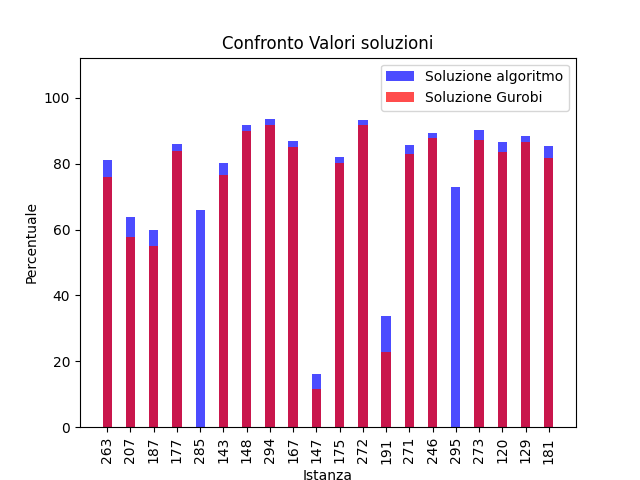
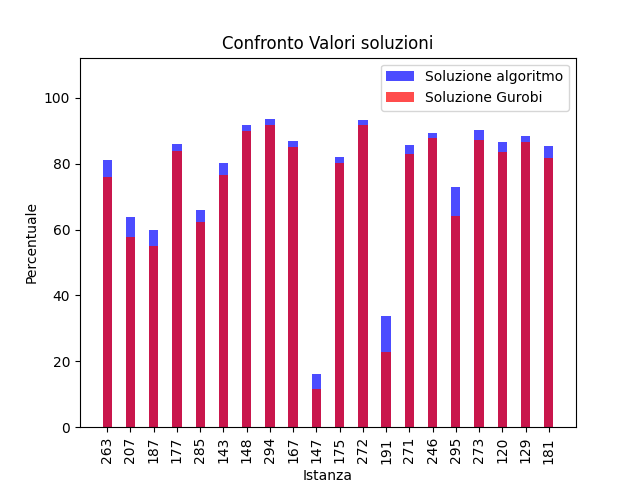
gurobi time out eseguito

Changed region(s): [[0.2812, 0.4688, 0.3438, 0.9062], [0.6875, 0.4375, 0.7188, 0.9062]]

diff --git a/Main.py b/Main.py
@@ -6,7 +6,7 @@ import matplotlib.pyplot as plt
 import networkx as nx
 import numpy as np
 from gurobipy import GRB
-N_ISTANZE = 80
+N_ISTANZE = 40
 LITTLE_IST = 500
 MAX_WEIGHT = 100
 MAX_NODES = 300
@@ -230,61 +230,63 @@ if __name__ == '__main__':
     for j in range(2):
 
         # Imposta la posizione delle barre
-        indices = np.arange(len(confronto_sol_list[j*(N_ISTANZE//4):(j+1)*N_ISTANZE//4]))
+        indices = np.arange(len(confronto_sol_list[j*(20):(j+1)*20]))
         plt.figure()
         # Grafico dei tempi
-        plt.bar(indices, tempo_sol_list[j*N_ISTANZE//4:(j+1)*N_ISTANZE//4], width=0.4, label='Soluzione algoritmo', color='blue', alpha=0.7)
-        plt.bar(indices, tempo_gurobi_list[j*N_ISTANZE//4:(j+1)*N_ISTANZE//4], width=0.4, label='Soluzione Gurobi', color='red', alpha=0.7)
+        plt.bar(indices, tempo_sol_list[j*20:(j+1)*20], width=0.4, label='Soluzione algoritmo', color='blue', alpha=0.7)
+        plt.bar(indices, tempo_gurobi_list[j*20:(j+1)*20], width=0.4, label='Soluzione Gurobi', color='red', alpha=0.7)
         plt.axhline(y=480, color='r', linestyle='--', label='Timeout Gurobi')
 
         # Aggiungi etichette e titolo
         plt.xlabel('Istanza')
         plt.ylabel('Tempo')
         plt.title('Confronto Tempo Soluzioni')
-        plt.xticks(ticks=indices, labels=[str(i) for i in num_nodes[j*N_ISTANZE//4:(j+1)*N_ISTANZE//4]], rotation=90)
+        plt.xticks(ticks=indices, labels=[str(i) for i in num_nodes[j*20:(j+1)*20]], rotation=90)
         plt.legend()
-        plt.ylim(0, max(max(tempo_sol_list[j*N_ISTANZE//4:(j+1)*N_ISTANZE//4]),max(tempo_gurobi_list[j*N_ISTANZE//4:(j+1)*N_ISTANZE//4]) * 1.2))
+        plt.ylim(0, max(max(tempo_sol_list[j*20:(j+1)*20]),max(tempo_gurobi_list[j*20:(j+1)*20]) * 1.2))
 
 
         plt.savefig('gTempo'+str(j))
 
         plt.figure()
-        plt.bar(indices, confronto_sol_list[j*N_ISTANZE//4:(j+1)*N_ISTANZE//4], width=0.4, label='Soluzione algoritmo', color='blue', alpha=0.7)
-        plt.bar(indices, confronto_gurobi_LB[j*N_ISTANZE//4:(j+1)*N_ISTANZE//4], width=0.4, label='Soluzione Gurobi', color='red', alpha=0.7)
+        plt.bar(indices, confronto_sol_list[j*20:(j+1)*20], width=0.4, label='Soluzione algoritmo', color='blue', alpha=0.7)
+        plt.bar(indices, confronto_gurobi_LB[j*20:(j+1)*20], width=0.4, label='Soluzione Gurobi', color='red', alpha=0.7)
         plt.xlabel('Istanza')
         plt.ylabel('Percentuale')
         plt.title('Confronto Valori soluzioni')
-        plt.xticks(ticks=indices, labels=[str(i) for i in num_nodes[j*N_ISTANZE//4:(j+1)*N_ISTANZE//4]], rotation=90)
+        plt.xticks(ticks=indices, labels=[str(i) for i in num_nodes[j*20:(j+1)*20]], rotation=90)
         plt.legend()
-        plt.ylim(0, max(confronto_sol_list[j*N_ISTANZE//4:(j+1)*N_ISTANZE//4]) * 1.2)
+        plt.ylim(0, max(confronto_sol_list[j*20:(j+1)*20]) * 1.2)
         plt.savefig('gValori'+ str(j))
+    """""
     for j in range(2,4):
 
         # Imposta la posizione delle barre
-        indices = np.arange(len(confronto_sol_list[j*(N_ISTANZE//4):(j+1)*N_ISTANZE//4]))
+        indices = np.arange(len(confronto_sol_list[j*(20):(j+1)*20]))
         plt.figure()
         # Grafico dei tempi
-        plt.bar(indices, tempo_sol_list[j*N_ISTANZE//4:(j+1)*N_ISTANZE//4], width=0.4, label='Soluzione algoritmo', color='blue', alpha=0.7)
+        plt.bar(indices, tempo_sol_list[j*20:(j+1)*20], width=0.4, label='Soluzione algoritmo', color='blue', alpha=0.7)
 
         # Aggiungi etichette e titolo
         plt.xlabel('Istanza')
         plt.ylabel('Tempo')
         plt.title('Tempo Soluzioni Grandi Istanze')
-        plt.xticks(ticks=indices, labels=[str(i) for i in num_nodes[j*N_ISTANZE//4:(j+1)*N_ISTANZE//4]], rotation=90)
+        plt.xticks(ticks=indices, labels=[str(i) for i in num_nodes[j*20:(j+1)*20]], rotation=90)
         plt.legend()
-        plt.ylim(0, max(tempo_sol_list[j*N_ISTANZE//4:(j+1)*N_ISTANZE//4]) * 1.2)
+        plt.ylim(0, max(tempo_sol_list[j*20:(j+1)*20]) * 1.2)
 
         plt.savefig('gTempo'+str(j))
 
         plt.figure()
-        plt.bar(indices, confronto_sol_list[j*N_ISTANZE//4:(j+1)*N_ISTANZE//4], width=0.4, label='Soluzione algoritmo', color='blue', alpha=0.7)
+        plt.bar(indices, confronto_sol_list[j*20:(j+1)*20], width=0.4, label='Soluzione algoritmo', color='blue', alpha=0.7)
         plt.xlabel('Istanza')
         plt.ylabel('Percentuale')
         plt.title('Confronto Valori soluzioni grandi istanze')
-        plt.xticks(ticks=indices, labels=[str(i) for i in num_nodes[j*N_ISTANZE//4:(j+1)*N_ISTANZE//4]], rotation=90)
+        plt.xticks(ticks=indices, labels=[str(i) for i in num_nodes[j*20:(j+1)*20]], rotation=90)
         plt.legend()
-        plt.ylim(0, max(confronto_sol_list[j*N_ISTANZE//4:(j+1)*N_ISTANZE//4]) * 1.2)
+        plt.ylim(0, max(confronto_sol_list[j*20:(j+1)*20]) * 1.2)
         plt.savefig('gValori'+ str(j))
+        """
     print('in media la soluzione trovata è stata più grande del '+ str(round(np.mean(confronto_sol_list),2))+'% rispetto al lower bound e per '+ str(sol_uguale_LB)+' volte è stato trovato valore soluzione uguale al lower bound')
     print('in media la soluzione trovata è stata più grande del '+ str(round(np.mean(confronto_gurobi_list),2))+'% rispetto alla soluzione di gurobi e per '+ str(sol_esatta)+' volte è stata trovata la soluzione esatta')
     print('tempo medio impiegato in più per trovare la soluzione '+ str(round(np.mean([a - b for a, b in zip(tempo_sol_list, tempo_gurobi_list)if b != -1]),2)) + 's')
